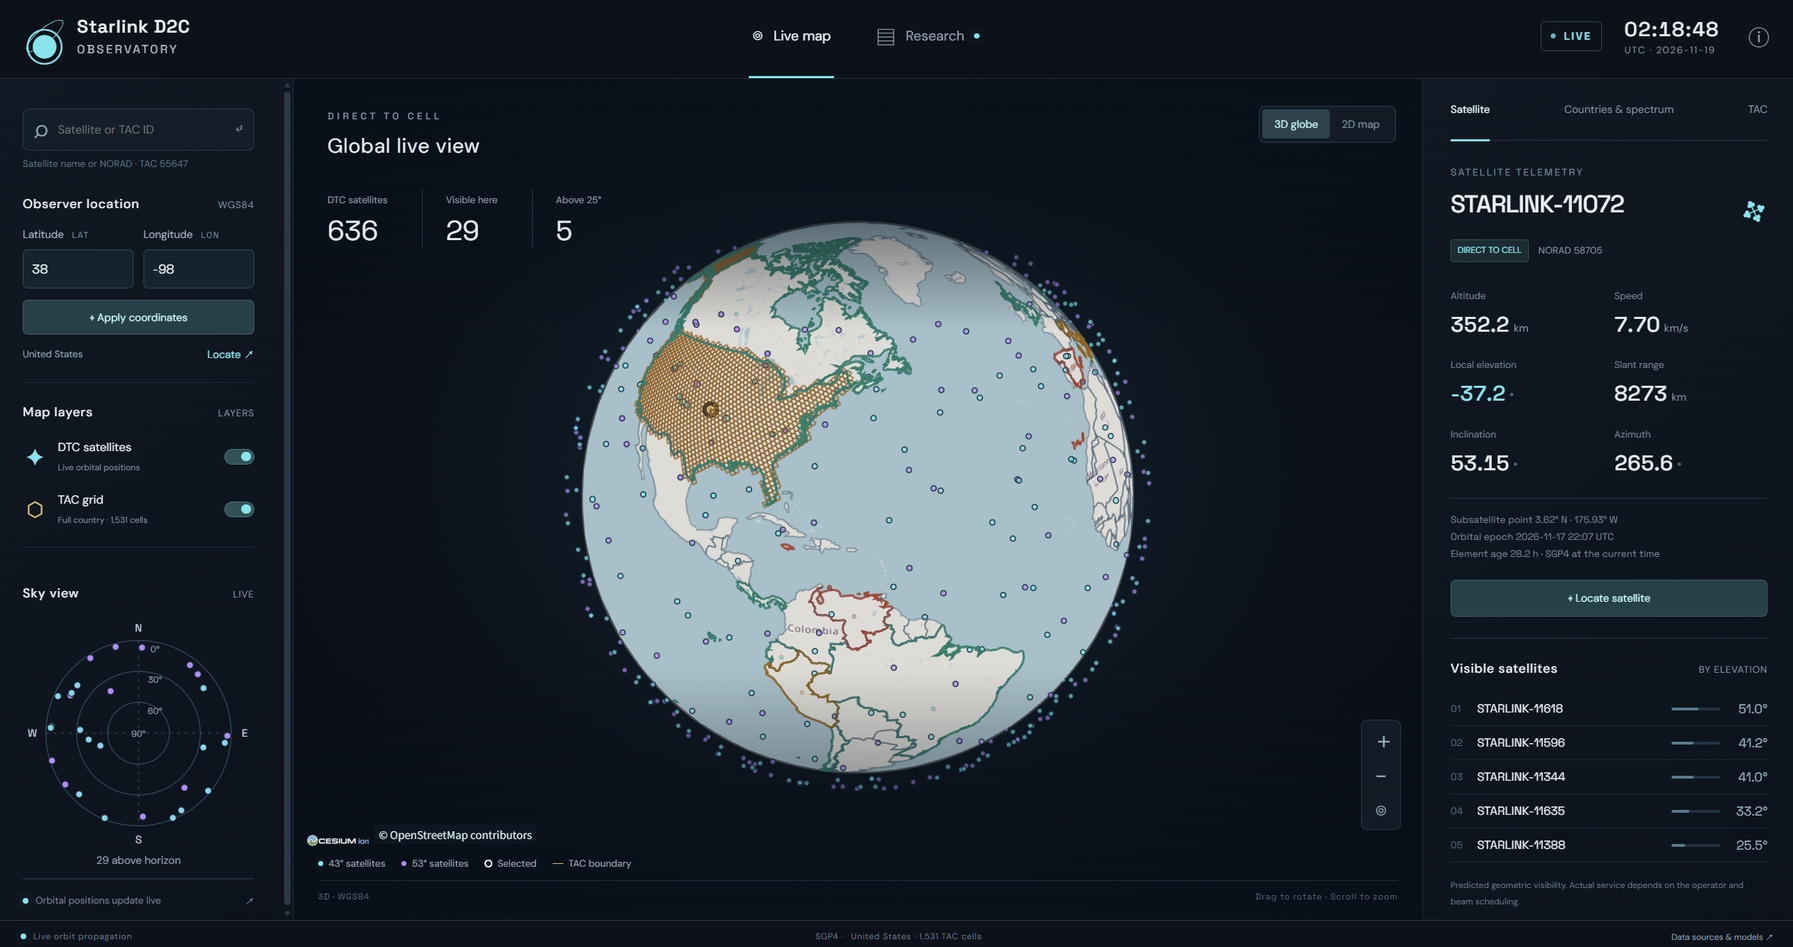
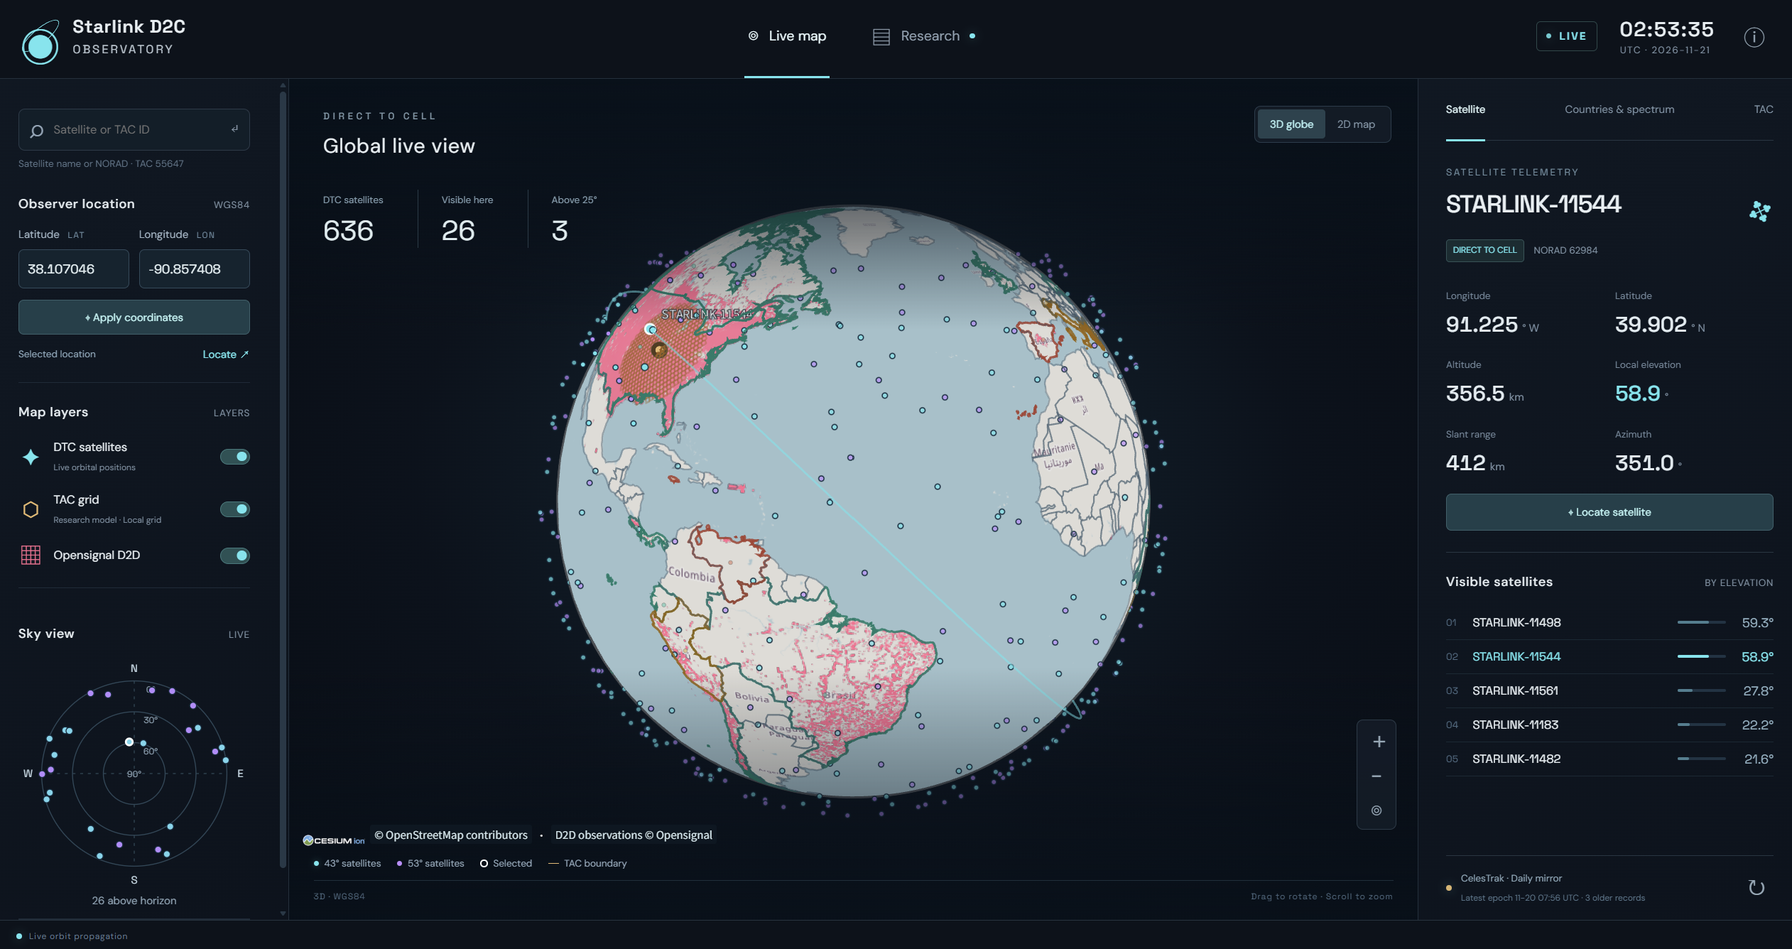
Update map interactions and preview

diff --git a/public/js/app.js b/public/js/app.js
@@ -11,7 +11,7 @@ const safeUrl = value => { try {const u = new URL(value, location.origin); retur
 const shortName = name => name.replace(/\s*\[DTC\]\s*/g, '');
 const statusText = { available:'Commercial',commercial:'Commercial',trial:'Trial',announced:'Announced',coming:'Trial / Coming soon',emergency:'Emergency',unknown:'Unknown',filing:'Filing only' };
 const typeText = { news:'News',research:'Selected research' };
-const state = {observerSelected:false,lat:40.4168,lon:-3.7038,locationName:'Madrid, Spain',selectedSat:null,orbitRequested:false,countryId:'ESP',tacId:null,tacCountryId:null,basemap:'osm',detail:'satellite',mode:'3d',satellites:[],countries:[],additionalPartners:[],news:[],tacReady:false,orbitData:null,countryTacs:{}};
+const state = {observerSelected:false,lat:40.4168,lon:-3.7038,locationName:'Madrid, Spain',selectedSat:null,satelliteSelectionCleared:false,orbitRequested:false,countryId:'ESP',tacId:null,tacCountryId:null,basemap:'osm',detail:'satellite',mode:'3d',satellites:[],countries:[],additionalPartners:[],news:[],tacReady:false,orbitData:null,countryTacs:{}};
 let C, viewer, pointCollection, countryLayer, tacLayer, tacOutlines, basemaps, observerEntity, orbitEntity, satelliteLabel, lastOrbitAt=0, toastTimer, tickCount=0, lastCandidates='', lastTacFocus='', countryFeatures=[];
 const colors = {};
 const renderSky=createSkyView($('sky-view'),$('sky-status'),id=>selectSatellite(id));
@@ -48,12 +48,12 @@ function hideTacGrid() {
   if(viewer)viewer.scene.requestRender();
 }
 function clearObserver() {
-  hideTacGrid();
-  state.observerSelected=false;state.locationName='';
+  state.observerSelected=false;state.locationName='';state.tacId=null;
+  lastTacFocus='';refreshTac();
   if(observerEntity)observerEntity.show=false;
   $('observer-lat').value='';$('observer-lon').value='';
   $('location-name').textContent='No location selected';$('coordinate-error').hidden=true;
-  renderSky([],false,null);updatePositions();
+  renderSky([],false,null);updatePositions();renderDetail();
   if(viewer)viewer.scene.requestRender();
 }
 function setObserver(lat,lon,name,fly=false,countryId=undefined,keepCountryGrid=false) {
@@ -84,8 +84,13 @@ function fitCountry(id) {
 }
 function selectSatellite(id,fly=false) {
   const sat=state.satellites.find(x=>x.noradId===Number(id));if(!sat)return;
+  if(!fly&&state.selectedSat===sat.noradId){
+    state.selectedSat=null;state.satelliteSelectionCleared=true;state.orbitRequested=false;lastOrbitAt=0;
+    if(orbitEntity){viewer.entities.remove(orbitEntity);orbitEntity=null;}
+    satelliteLabel.show=false;updatePositions();return;
+  }
   if(!sat.geo){toast(`${shortName(sat.name)} has no valid position for the current orbital elements.`);return;}
-  state.selectedSat=sat.noradId;state.orbitRequested=true;setDetail('satellite');lastOrbitAt=0;updatePositions();
+  state.satelliteSelectionCleared=false;state.selectedSat=sat.noradId;state.orbitRequested=true;setDetail('satellite');lastOrbitAt=0;updatePositions();
   if(fly&&sat.geo){viewer.scene.completeMorph();viewer.camera.flyTo({destination:C.Cartesian3.fromDegrees(sat.geo.lon,sat.geo.lat,2200000),duration:1.4});}
 }
 function selectTac(id,fly=false,openDetail=true) {
@@ -98,9 +103,9 @@ function selectTac(id,fly=false,openDetail=true) {
 function renderDetail() {
   if(state.detail==='satellite') {
     const sat=state.satellites.find(s=>s.noradId===state.selectedSat);
-    if(!sat||!sat.geo){$('detail-content').innerHTML='<div class="empty-state">Loading valid orbits.<br>Select a satellite once the data is ready.</div>';return;}
+    if(!sat||!sat.geo){$('detail-content').innerHTML='<div class="empty-state">Select a satellite to view its orbit and parameters.</div>';return;}
     const g=sat.geo, hours=ageHours(sat.epoch);
-    $('detail-content').innerHTML=`<div class="object-eyebrow">SATELLITE TELEMETRY</div><div class="object-heading"><h2>${esc(shortName(sat.name))}</h2><span class="sat-icon">✥</span></div><div class="subline"><span class="tag">DIRECT TO CELL</span><span>NORAD ${sat.noradId}</span></div><div class="detail-grid">${metric('Altitude',g.height.toFixed(1),'km')}${metric('Speed',g.speed.toFixed(2),'km/s')}${metric('Local elevation',state.observerSelected?g.elevation.toFixed(1):'—','°',true)}${metric('Slant range',state.observerSelected?g.range.toFixed(0):'—','km')}${metric('Inclination',(sat.satrec.inclo*180/Math.PI).toFixed(2),'°')}${metric('Azimuth',state.observerSelected?g.azimuth.toFixed(1):'—','°')}</div><div class="detail-meta">Subsatellite point ${formatCoords(g.lat,g.lon,2)}<br>Orbital epoch ${utc(sat.epoch)}<br>Element age ${hours.toFixed(1)} h · SGP4 at the current time</div>${hours>72?'<div class="warning-note">These orbital elements are over 72 hours old; position estimates may be less accurate.</div>':''}<button class="action-button" id="focus-satellite">⌖ Locate satellite</button>`;
+    $('detail-content').innerHTML=`<div class="object-eyebrow">SATELLITE TELEMETRY</div><div class="object-heading"><h2>${esc(shortName(sat.name))}</h2><span class="sat-icon">✥</span></div><div class="subline"><span class="tag">DIRECT TO CELL</span><span>NORAD ${sat.noradId}</span></div><div class="detail-grid">${metric('Longitude',Math.abs(g.lon).toFixed(3),g.lon>=0?'° E':'° W')}${metric('Latitude',Math.abs(g.lat).toFixed(3),g.lat>=0?'° N':'° S')}${metric('Altitude',g.height.toFixed(1),'km')}${metric('Local elevation',state.observerSelected?g.elevation.toFixed(1):'—','°',true)}${metric('Slant range',state.observerSelected?g.range.toFixed(0):'—','km')}${metric('Azimuth',state.observerSelected?g.azimuth.toFixed(1):'—','°')}</div>${hours>72?'<div class="warning-note">These orbital elements are over 72 hours old; position estimates may be less accurate.</div>':''}<button class="action-button" id="focus-satellite">⌖ Locate satellite</button>`;
   } else if(state.detail==='country') {
     const c=currentCountry();if(!c){$('detail-content').innerHTML='<div class="empty-state">Select a country from the list.</div>';return;}
     const entry=state.countryTacs[c.id];
@@ -140,11 +145,9 @@ async function createGlobe() {
     if(id?.kind==='satellite'){selectSatellite(id.noradId);return;}
     if(id?.id?.startsWith('tac-')){const tid=Number(id.id.slice(4));const hit=globeCoordinate(click.position);if(hit)setObserver(hit.lat,hit.lon,'Selected location',false,undefined,Boolean(state.tacCountryId));selectTac(tid,false,false);return;}
     if(state.tacCountryId&&$('layer-tac').checked){const hit=globeCoordinate(click.position);const tid=hit?nearestTac(hit.lat,hit.lon):null;if(tid!==null&&state.countryTacs[state.tacCountryId]?.ids.includes(tid)){setObserver(hit.lat,hit.lon,'Selected location',false,undefined,true);selectTac(tid,false,false);return;}}
-    if(id?.id?.startsWith('country-')){const code=id.id.slice(8).split('_')[0];if(state.countries.some(c=>c.id===code)){selectCountry(code);return;}}
     const point=globeCoordinate(click.position);if(point){setObserver(point.lat,point.lon,'Selected location');toast('Observer location and visible satellites updated.');}
   },C.ScreenSpaceEventType.LEFT_CLICK);
   handler.setInputAction(click=>{const point=globeCoordinate(click.position);if(point){setObserver(point.lat,point.lon,'Selected location');}},C.ScreenSpaceEventType.RIGHT_CLICK);
-  viewer.camera.moveEnd.addEventListener(()=>{if(!state.tacReady||state.tacCountryId)return;const center=globeCoordinate(new C.Cartesian2(viewer.canvas.clientWidth/2,viewer.canvas.clientHeight/2));if(center&&viewer.camera.positionCartographic.height<5500000)refreshTac(center);});
   viewer.scene.renderError.addEventListener((scene,error)=>{console.error(error);toast('Map rendering failed. Please reload the page.');});
 }
 function globeCoordinate(position) {const ray=viewer.camera.getPickRay(position);const p=ray&&viewer.scene.globe.pick(ray,viewer.scene);if(!p)return null;const g=C.Cartographic.fromCartesian(p);return {lat:C.Math.toDegrees(g.latitude),lon:C.Math.toDegrees(g.longitude)};}
@@ -187,12 +190,17 @@ function countryAt(lat,lon) {
 }
 function highlightCountries() {if(!countryLayer)return;countryLayer.show=true;for(const e of countryLayer.entities.values){if(!e.polygon)continue;const c=state.countries.find(x=>e.id.startsWith(`country-${x.id}_`));if(c)e.polygon.material=countryColor(c).withAlpha(c.id===state.countryId ? .075 : 0);}viewer.scene.requestRender();}
 
-function refreshTac(focus) {
+function refreshTac() {
   if(!state.tacReady||!tacLayer||!tacOutlines)return;
   tacLayer.show=tacOutlines.show=$('layer-tac').checked;
   viewer.scene.requestRender();
+  const center={lat:state.lat,lon:state.lon},entry=state.countryTacs[state.tacCountryId];
+  if(!entry&&!state.observerSelected){
+    tacLayer.entities.removeAll();tacOutlines.removeAll();lastTacFocus='';
+    $('tac-scope-label').textContent='Research model · Select an observer';
+    return;
+  }
   if(!$('layer-tac').checked)return;
-  const center=focus||{lat:state.lat,lon:state.lon},entry=state.countryTacs[state.tacCountryId];
   const scope=entry?`country:${state.tacCountryId}`:`local:${center.lat.toFixed(1)},${center.lon.toFixed(1)}`;
   const key=`${scope},${state.tacId},${state.basemap}`;
   if(key===lastTacFocus)return;lastTacFocus=key;tacLayer.entities.removeAll();tacOutlines.removeAll();
@@ -211,7 +219,6 @@ function refreshTac(focus) {
   tacLayer.entities.resumeEvents();tacLayer.show=tacOutlines.show=$('layer-tac').checked;
   const country=state.countries.find(c=>c.id===state.tacCountryId);
   $('tac-scope-label').textContent=entry?`Full country · ${entry.count.toLocaleString('en-US')} cells`:'Research model · Local grid';
-  $('tac-status').textContent=entry?`${country?.name} · ${entry.count.toLocaleString('en-US')} TAC cells`:'65,536 candidate TAC cells';
   viewer.scene.requestRender();
 }
 
@@ -247,8 +254,8 @@ function updatePositions() {
   if(!state.observerSelected)visible.length=0;
   visible.sort((a,b)=>b.geo.elevation-a.geo.elevation);
   if(state.selectedSat&&!state.satellites.find(s=>s.noradId===state.selectedSat)?.geo){state.selectedSat=null;lastOrbitAt=0;if(orbitEntity){viewer.entities.remove(orbitEntity);orbitEntity=null;}satelliteLabel.show=false;}
-  if(!state.selectedSat&&visible.length)state.selectedSat=visible[0].noradId;
-  if(!state.selectedSat)state.selectedSat=state.satellites.find(s=>s.geo)?.noradId;
+  if(!state.satelliteSelectionCleared&&!state.selectedSat&&visible.length)state.selectedSat=visible[0].noradId;
+  if(!state.satelliteSelectionCleared&&!state.selectedSat)state.selectedSat=state.satellites.find(s=>s.geo)?.noradId;
   renderSky(state.satellites,state.observerSelected,state.selectedSat);
   $('visible-total').textContent=state.observerSelected?visible.length:'—';$('high-total').textContent=state.observerSelected?visible.filter(s=>s.geo.elevation>=25).length:'—';
   $('bottom-status').textContent=`Live orbit propagation${invalid?` · ${invalid} without a valid current position`:''}`;
@@ -319,7 +326,6 @@ function setupEvents() {
     if(/^tac\s*\d+$/i.test(query)){state.tacCountryId=null;selectTac(Number(query.replace(/tac\s*/i,'')),true);return;}
     const sat=state.satellites.find(s=>String(s.noradId)===query||shortName(s.name).toLowerCase()===query.toLowerCase()||shortName(s.name).replace('STARLINK-','')===query);
     if(sat){selectSatellite(sat.noradId,true);return;}
-    const country=state.countries.find(c=>[c.name,c.nameEn,c.id].some(n=>n.toLowerCase()===query.toLowerCase()));if(country){selectCountry(country.id);return;}
     if(/^\d+$/.test(query)){state.tacCountryId=null;selectTac(Number(query),true);return;}toast('No match found. Enter a satellite ID or TAC 55647.');
   });
   $('layer-satellites').addEventListener('change',updatePositions);
@@ -330,7 +336,7 @@ function setupEvents() {
   $('reset-view').addEventListener('click',()=>globalView());$('location-focus').addEventListener('click',()=>{if(viewer){viewer.scene.completeMorph();viewer.camera.flyTo({destination:C.Cartesian3.fromDegrees(state.lon,state.lat,120000),duration:1.4});}});
   $('location-form').addEventListener('submit',event=>{event.preventDefault();try{const point=parseObserverCoordinates($('observer-lat').value,$('observer-lon').value);if(!viewer){toast('The map is still loading. Apply the coordinates when it is ready.');return;}setObserver(point.lat,point.lon,'Custom coordinates');viewer.scene.completeMorph();viewer.camera.flyTo({destination:C.Cartesian3.fromDegrees(point.lon,point.lat,120000),duration:1.4});toast(`Observer updated: ${formatCoords(point.lat,point.lon,4)}`);}catch(error){$('coordinate-error').textContent=error.message;$('coordinate-error').hidden=false;}});
   $('refresh-orbits').addEventListener('click',()=>refreshOrbits(true));$('refresh-news').addEventListener('click',()=>refreshNews(true));
-  for(const id of ['about-button','data-info-button'])$(id).addEventListener('click',()=>$('about-dialog').showModal());$('close-about').addEventListener('click',()=>$('about-dialog').close());
+  $('about-button').addEventListener('click',()=>$('about-dialog').showModal());$('close-about').addEventListener('click',()=>$('about-dialog').close());
   $('about-dialog').addEventListener('click',event=>{if(event.target===$('about-dialog')){const r=event.target.getBoundingClientRect();if(event.clientX<r.left||event.clientX>r.right||event.clientY<r.top||event.clientY>r.bottom)event.target.close();}});
 }
 function clockTick() {const now=new Date();$('utc-clock').textContent=now.toISOString().slice(11,19);$('utc-date').textContent=now.toISOString().slice(0,10);if(!document.hidden&&tickCount++%1===0)updatePositions();}
@@ -351,7 +357,7 @@ async function init() {
     await createGlobe();state.tacId=nearestTac(state.lat,state.lon);
     const startSnapshot=await json('/data/orbits.json');installOrbits(startSnapshot);$('globe-loading').hidden=true;
     addCountries().catch(e=>{console.warn(e);toast('The country layer could not load. Spectrum records are still available.');});
-    loadTacModel().then(()=>{state.tacReady=true;refreshTac();if(state.detail==='tac')renderDetail();}).catch(e=>{console.warn(e);$('layer-tac').checked=false;$('tac-status').textContent='TAC boundaries unavailable';toast('TAC boundaries could not load. Center lookup is still available.');});
+    loadTacModel().then(()=>{state.tacReady=true;refreshTac();if(state.detail==='tac')renderDetail();}).catch(e=>{console.warn(e);$('layer-tac').checked=false;toast('TAC boundaries could not load. Center lookup is still available.');});
     json('/data/news.json').then(data=>{state.news=data.items;renderNews();}).catch(console.warn);
     refreshOrbits();refreshNews();setInterval(refreshOrbits,7200000);setInterval(refreshNews,900000);
     window.addEventListener('resize',()=>{viewer.resize();viewer.scene.requestRender();});

diff --git a/public/dashboard.html b/public/dashboard.html
@@ -38,8 +38,7 @@
       <div class="section-title"><h2>Map layers</h2><span class="muted">LAYERS</span></div>
       <label class="layer-row"><span class="layer-icon cyan">✦</span><span class="layer-name">DTC satellites<small>Live orbital positions</small></span><input id="layer-satellites" type="checkbox" checked><span class="switch"></span></label>
       <label class="layer-row"><span class="layer-icon amber">⬡</span><span class="layer-name">TAC grid<small id="tac-scope-label">Research model · Fibonacci / Voronoi</small></span><input id="layer-tac" type="checkbox" checked><span class="switch"></span></label>
-    <label class="layer-row"><span class="layer-icon" style="color:#ff6a91">▦</span><span class="layer-name">Opensignal D2D<small id="opensignal-status">Observed grids · October 31, 2026</small></span><input id="layer-opensignal" type="checkbox"><span class="switch"></span></label>
-      <p class="fineprint">D2D observations, not Starlink-only or live coverage. <a href="https://d2d.opensignal.com/" target="_blank" rel="noopener">Opensignal</a></p>
+    <label class="layer-row"><span class="layer-icon" style="color:#ff6a91">▦</span><span class="layer-name">Opensignal D2D<small id="opensignal-status" hidden></small></span><input id="layer-opensignal" type="checkbox" checked><span class="switch"></span></label>
       </section>
 
     <section class="panel-section sky-section" aria-label="Real-time sky view"><div class="section-title"><h2>Sky view</h2><span class="muted">LIVE</span></div><svg id="sky-view" viewBox="0 0 240 240" role="group" aria-label="Satellite sky plot: north up, east right"></svg><p id="sky-status">Select an observer location</p></section>
@@ -63,7 +62,7 @@
       <div class="country-status-legend" aria-label="Country service status colors"><span><i class="status-dot available"></i>Commercial</span><span><i class="status-dot trial"></i>Testing</span><span><i class="status-dot emergency"></i>Emergency</span></div>
     </section>
     <div id="detail-content" class="detail-content"><div class="empty-state">Loading satellite details…</div></div>
-    <section class="candidates-panel"><div class="section-title"><h2>Visible satellites</h2><span class="muted">BY ELEVATION</span></div><div id="candidate-list" class="candidate-list"></div><p class="fineprint">Predicted geometric visibility. Actual service depends on the operator and beam scheduling.</p></section>
+    <section class="candidates-panel"><div class="section-title"><h2>Visible satellites</h2><span class="muted">BY ELEVATION</span></div><div id="candidate-list" class="candidate-list"></div></section>
     <div class="source-status"><span id="source-dot" class="tiny-dot"></span><div><b id="orbit-source">Connecting to the ephemeris source</b><small id="orbit-freshness">Checking orbital epochs…</small></div><button id="refresh-orbits" class="icon-button" aria-label="Refresh ephemerides">↻</button></div>
   </aside>
 </main>
@@ -72,6 +71,6 @@
   <div class="news-toolbar"><input id="news-search" placeholder="Title, topic or publication" aria-label="Search research"></div>
   <p id="news-status" class="news-status">Fetching the latest updates…</p><div id="news-grid" class="news-grid"></div>
 </main>
-<footer class="statusbar"><span><i class="tiny-dot"></i> <span id="bottom-status">Live orbital propagation</span></span><span>SGP4 · <span id="tac-status">65,536 candidate TAC cells</span></span><button id="data-info-button">Data sources &amp; models ↗</button></footer>
+<footer class="statusbar"><span><i class="tiny-dot"></i> <span id="bottom-status">Live orbital propagation</span></span></footer>
 <dialog id="about-dialog"><button id="close-about" class="dialog-close" aria-label="Close">×</button><span class="eyebrow">ABOUT THIS OBSERVATORY</span><h2>Bring the research onto the globe.</h2><p>Satellite positions are propagated from public TLE data with SGP4 for the current UTC time. The display includes the ephemeris source, epoch and age. Positions update every second; orbital data is cached according to the source's update cycle.</p><p>The TAC layer uses the research's Fibonacci / spherical Voronoi candidate model, spanning approximately 70° north to 70° south. Selecting a country shows every TAC cell intersecting its boundaries, with border cells kept intact. A TAC and PLMN together identify a tracking area; the model is not an operator-published map of live beam boundaries.</p><p>Map imagery is provided by OpenStreetMap contributors. Country boundaries use public-domain Natural Earth data.</p><p>Country spectrum records follow the updated Table 3.5: 31 countries and 34 operator records. Country borders are always visible. Operator cards show service status, paired uplink/downlink frequencies, LTE Band and PLMN. Service colors do not imply that every location can connect at this moment.</p><p>Research is selected from the thesis bibliography.</p><div class="about-links"><a href="/spectrum-review.html">Full evidence review ↗</a><a href="https://celestrak.org/NORAD/elements/" target="_blank" rel="noopener">CelesTrak ↗</a><a href="https://www.openstreetmap.org/copyright" target="_blank" rel="noopener">OpenStreetMap ↗</a><a href="/data/tac/metadata.json" target="_blank">TAC parameters ↗</a></div></dialog>
 </body></html>

diff --git a/public/js/opensignal.js b/public/js/opensignal.js
@@ -55,19 +55,21 @@ export function createD2DProvider(C, data) {
 }
 export function attachD2DLayer(C,viewer,checkbox,status) {
   let layer,loading;
-  checkbox.addEventListener('change',async()=>{
+  const syncLayer=async()=>{
     if(layer){layer.show=checkbox.checked;viewer.scene.requestRender();return;}
     if(!checkbox.checked||loading)return;
-    status.textContent='Loading observations…';
+    status.hidden=false;status.textContent='Loading observations…';
     loading=(async()=>{
       const response=await fetch('/data/d2d-data.314191eadb65.bin');
       if(!response.ok)throw new Error(`HTTP ${response.status}`);
       const data=decodeD2D(await response.arrayBuffer());
       layer=viewer.imageryLayers.addImageryProvider(createD2DProvider(C,data));
       layer.show=checkbox.checked;
-      status.textContent=`${data.cells.length.toLocaleString('en-US')} cells · ${data.date}`;
+      status.textContent='';status.hidden=true;
       viewer.scene.requestRender();
     })();
-    try{await loading;}catch(error){console.error(error);checkbox.checked=false;status.textContent='Unable to load · toggle to retry';}finally{loading=null;}
-  });
+    try{await loading;}catch(error){console.error(error);checkbox.checked=false;status.hidden=false;status.textContent='Unable to load · toggle to retry';}finally{loading=null;}
+  };
+  checkbox.addEventListener('change',syncLayer);
+  if(checkbox.checked)void syncLayer();
 }

diff --git a/README.md b/README.md
@@ -9,12 +9,12 @@ An interactive research platform for exploring Starlink Direct-to-Cell satellite
 | Feature | Usage |
 | --- | --- |
 | 2D&nbsp;/&nbsp;3D&nbsp;Map | Switch views, rotate, and zoom to explore the constellation. Blue dots indicate 43° orbits; purple dots indicate 53° orbits. |
-| Satellite&nbsp;Tracking | Click a satellite to display its orbit and parameters. Positions are updated every second using SGP4. |
-| Observer&nbsp;Location | Enter coordinates or select a location on the globe. Click the Observer marker again to clear the selection. |
+| Satellite&nbsp;Tracking | Click a satellite to display its orbit and parameters; click it again to deselect. Positions are updated every second using SGP4. |
+| Observer&nbsp;Location | Enter coordinates or select a location on the globe. Click the Observer marker again to clear it and its local TAC grid without switching off the TAC layer. |
 | Live&nbsp;Sky&nbsp;View | View satellites above the selected location's horizon. Click a dot for satellite details. The plot stays empty until a location is selected. |
 | TAC&nbsp;Model | Search a TAC ID or select a country to view its model grid. Click the selected country again to hide all TAC cells. This is a research model, not confirmed live beam coverage. |
 | Countries&nbsp;&amp;&nbsp;Spectrum | Search countries, operators, or bands to view service stages, frequency pairs, LTE bands, and PLMNs. |
-| Opensignal&nbsp;D2D | Toggle the observed-grid layer in 2D or 3D. The dated snapshot includes all reported D2D networks; operator identities and live coverage are unavailable. |
+| Opensignal&nbsp;D2D | The observed-grid layer is enabled by default and can be toggled in 2D or 3D. The dated snapshot includes all reported D2D networks; operator identities and live coverage are unavailable. |
 | Research | Browse selected studies by publication date, search by keyword, and open original sources. |
 
 ## License & Credits
